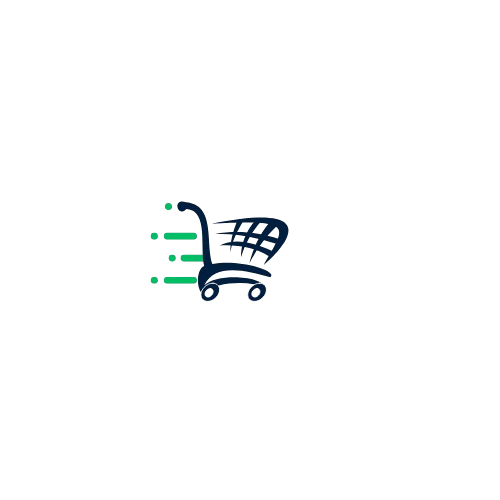
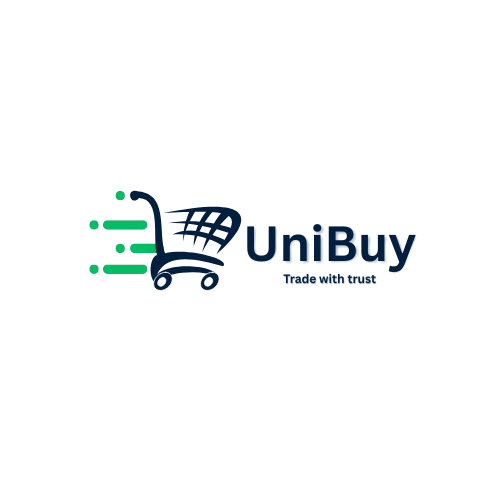
waitlist change

Changed region(s): [[0.18, 0.36, 0.84, 0.6]]

diff --git a/components/WaitlistPage.tsx b/components/WaitlistPage.tsx
@@ -47,22 +47,58 @@ export default function WaitlistPage() {
     const springY = useSpring(backgroundY, { stiffness: 100, damping: 30 });
     const springRotate = useSpring(backgroundRotate, { stiffness: 100, damping: 30 });
 
-    const handleSubmit = (e: React.FormEvent) => {
+    // const handleSubmit = (e: React.FormEvent) => {
+    //     e.preventDefault();
+    //     if (!email || !email.includes('@')) {
+    //         setStatus('error');
+    //         // Reset error after 3 seconds
+    //         setTimeout(() => setStatus('idle'), 3000);
+    //         return;
+    //     }
+
+    //     setStatus('loading');
+    //     setTimeout(() => {
+    //         setStatus('success');
+    //         console.log('Registered email:', email);
+    //         setEmail('');
+    //     }, 1500);
+    // };
+    const handleSubmit = async (e: React.FormEvent) => {
         e.preventDefault();
-        if (!email || !email.includes('@') || !email.includes('.edu')) {
-            setStatus('error');
-            // Reset error after 3 seconds
-            setTimeout(() => setStatus('idle'), 3000);
+
+        if (!email || !email.includes("@")) {
+            setStatus("error");
+            setTimeout(() => setStatus("idle"), 3000);
             return;
         }
 
-        setStatus('loading');
-        setTimeout(() => {
-            setStatus('success');
-            console.log('Registered email:', email);
-            setEmail('');
-        }, 1500);
+        try {
+            setStatus("loading");
+
+            const res = await fetch("https://waitlist-fkdr.onrender.com/join", {
+                method: "POST",
+                headers: { "Content-Type": "application/json" },
+                body: JSON.stringify({ email }),
+            });
+
+            const data = await res.json();
+            console.log("Waitlist route response:", data);
+
+            if (!res.ok) {
+                throw new Error(data.error || "Request failed");
+            }
+
+            setStatus("success");
+            setEmail("");
+        } catch (err) {
+            console.error("Frontend error:", err);
+            setStatus("error");
+            setTimeout(() => setStatus("idle"), 3000);
+        }
     };
+
+
+
 
     return (
         <div ref={containerRef} className="min-h-screen bg-slate-50 dark:bg-black font-sans text-slate-900 dark:text-white overflow-hidden relative selection:bg-indigo-500/30 selection:text-indigo-200">
@@ -82,13 +118,13 @@ export default function WaitlistPage() {
 
             <nav className="relative z-50 p-6 flex justify-between items-center max-w-7xl mx-auto">
                 <div className="flex items-center">
-                    <img src="/UniBuy.png" alt="UniBuy Logo" className="w-32 h-32 object-contain" />
-                    <span className="text-xl font-bold tracking-tight">UniBuy</span>
+                    <img src="/UniBuy.png" alt="UniBuy Logo" className="w-40 h-40 object-contain" />
+                    {/* <span className="text-xl font-bold tracking-tight ml-[-9] ">UniBuy</span> */}
                 </div>
                 <ThemeToggle />
             </nav>
 
-            <main className="relative z-10 flex flex-col items-center justify-center pt-20 pb-32 px-4 text-center">
+            <main className="relative z-10 flex flex-col items-center justify-center pt-10 pb-32 px-4 text-center">
 
                 {/* Badge */}
                 <motion.div
